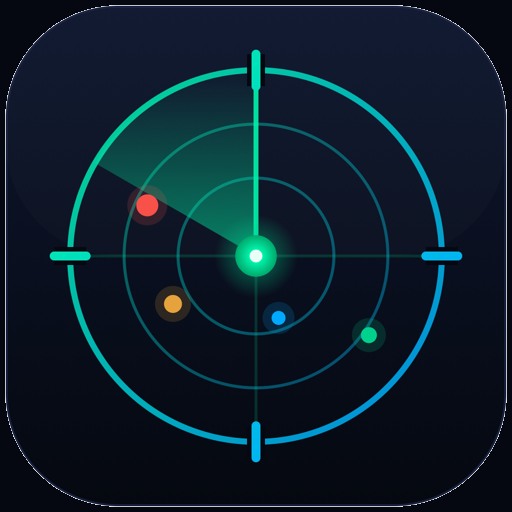
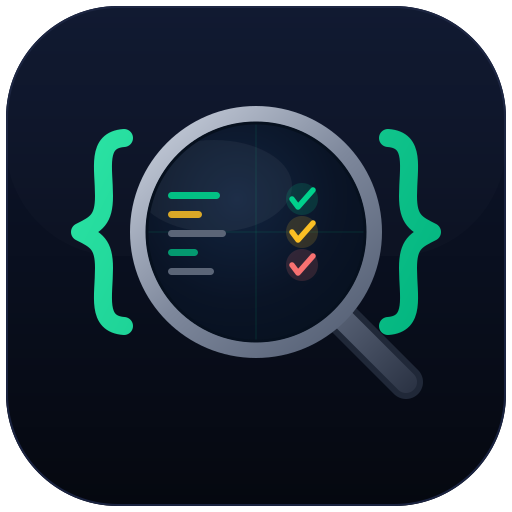
sync: marketplace v5.6.0 (free + pro) from monorepo

diff --git a/README.md b/README.md
@@ -1,6 +1,8 @@
 # RepoScope — Cursor Plugin
 
-**Catch the secrets and risky code in your repo — before your AI builds on them.** Free security scanner + token-ranked repo map + EU AI Act Article 12 provenance tracking; Pro adds Cost, Budget (Token Budget Intelligence), Compliance, and a persistent AI game plan.
+**Compliance intelligence for your codebase. find. fix. report.**
+
+Scan your code for security risks, map findings to 5 compliance frameworks (OWASP, SOC 2, PCI-DSS, ISO 42001, EU AI Act), and generate audit-ready evidence — all from your IDE, with one command. Local-first: your code never leaves your machine.
 
 [![Install — VS Code / Cursor](https://img.shields.io/badge/Install-VS%20Code%20%2F%20Cursor-007ACC?logo=visualstudiocode&logoColor=white)](vscode:extension/nxgentech.reposcope-ai)
 [![OpenVSX — Registry](https://img.shields.io/badge/OpenVSX-Registry-C160EF?logo=eclipse&logoColor=white)](https://open-vsx.org/extension/nxgentech/reposcope-ai)
@@ -15,7 +17,9 @@
 
 ## What is RepoScope?
 
-RepoScope is a developer productivity plugin for [Cursor](https://cursor.com) that scans your repo for secrets and risky code, maps it by token cost, and — with Pro — shows what each file costs to analyze with AI. The security scanner, repo map, and Provenance tab are free on every install.
+RepoScope is the compliance intelligence engine for developers who ship with AI. It scans your codebase for security risks, maps every finding to regulatory framework controls, and generates the audit artifacts your auditor actually asks for — all from your IDE, without your code ever leaving your machine.
+
+**Free:** security scanner (44 detectors, 14 languages), token-ranked repo map, EU AI Act Article 12 provenance tracking. **Pro:** 5-framework compliance posture, 4 audit-ready templates, 1-click evidence package, token cost and budget intelligence, AI Game Plan.
 
 ### Security Scanning — Free
 
@@ -63,6 +67,10 @@ Generate **audit-ready templates** per framework with one click — **Control Ma
 AI-powered goal suggestions based on your repo analysis. Track progress, mark goals complete, and use "Fix with Cursor" to resolve issues directly in the editor.
 
 ![AI Game Plan — persistent context across AI sessions](https://raw.githubusercontent.com/xdun1698/reposcope-cursor/main/screenshots/game-plan.png)
+
+### Audit Prep — Pro
+
+One-click evidence package. Run **RepoScope: Prepare for Audit** from the Command Palette to generate all 4 audit-ready templates — Control Matrix, Attestation Memo, Gap Plan, Auditor Evidence Response — across all active frameworks at once. Output goes to `.reposcope/audit/`. No re-scan required.
 
 ---
 